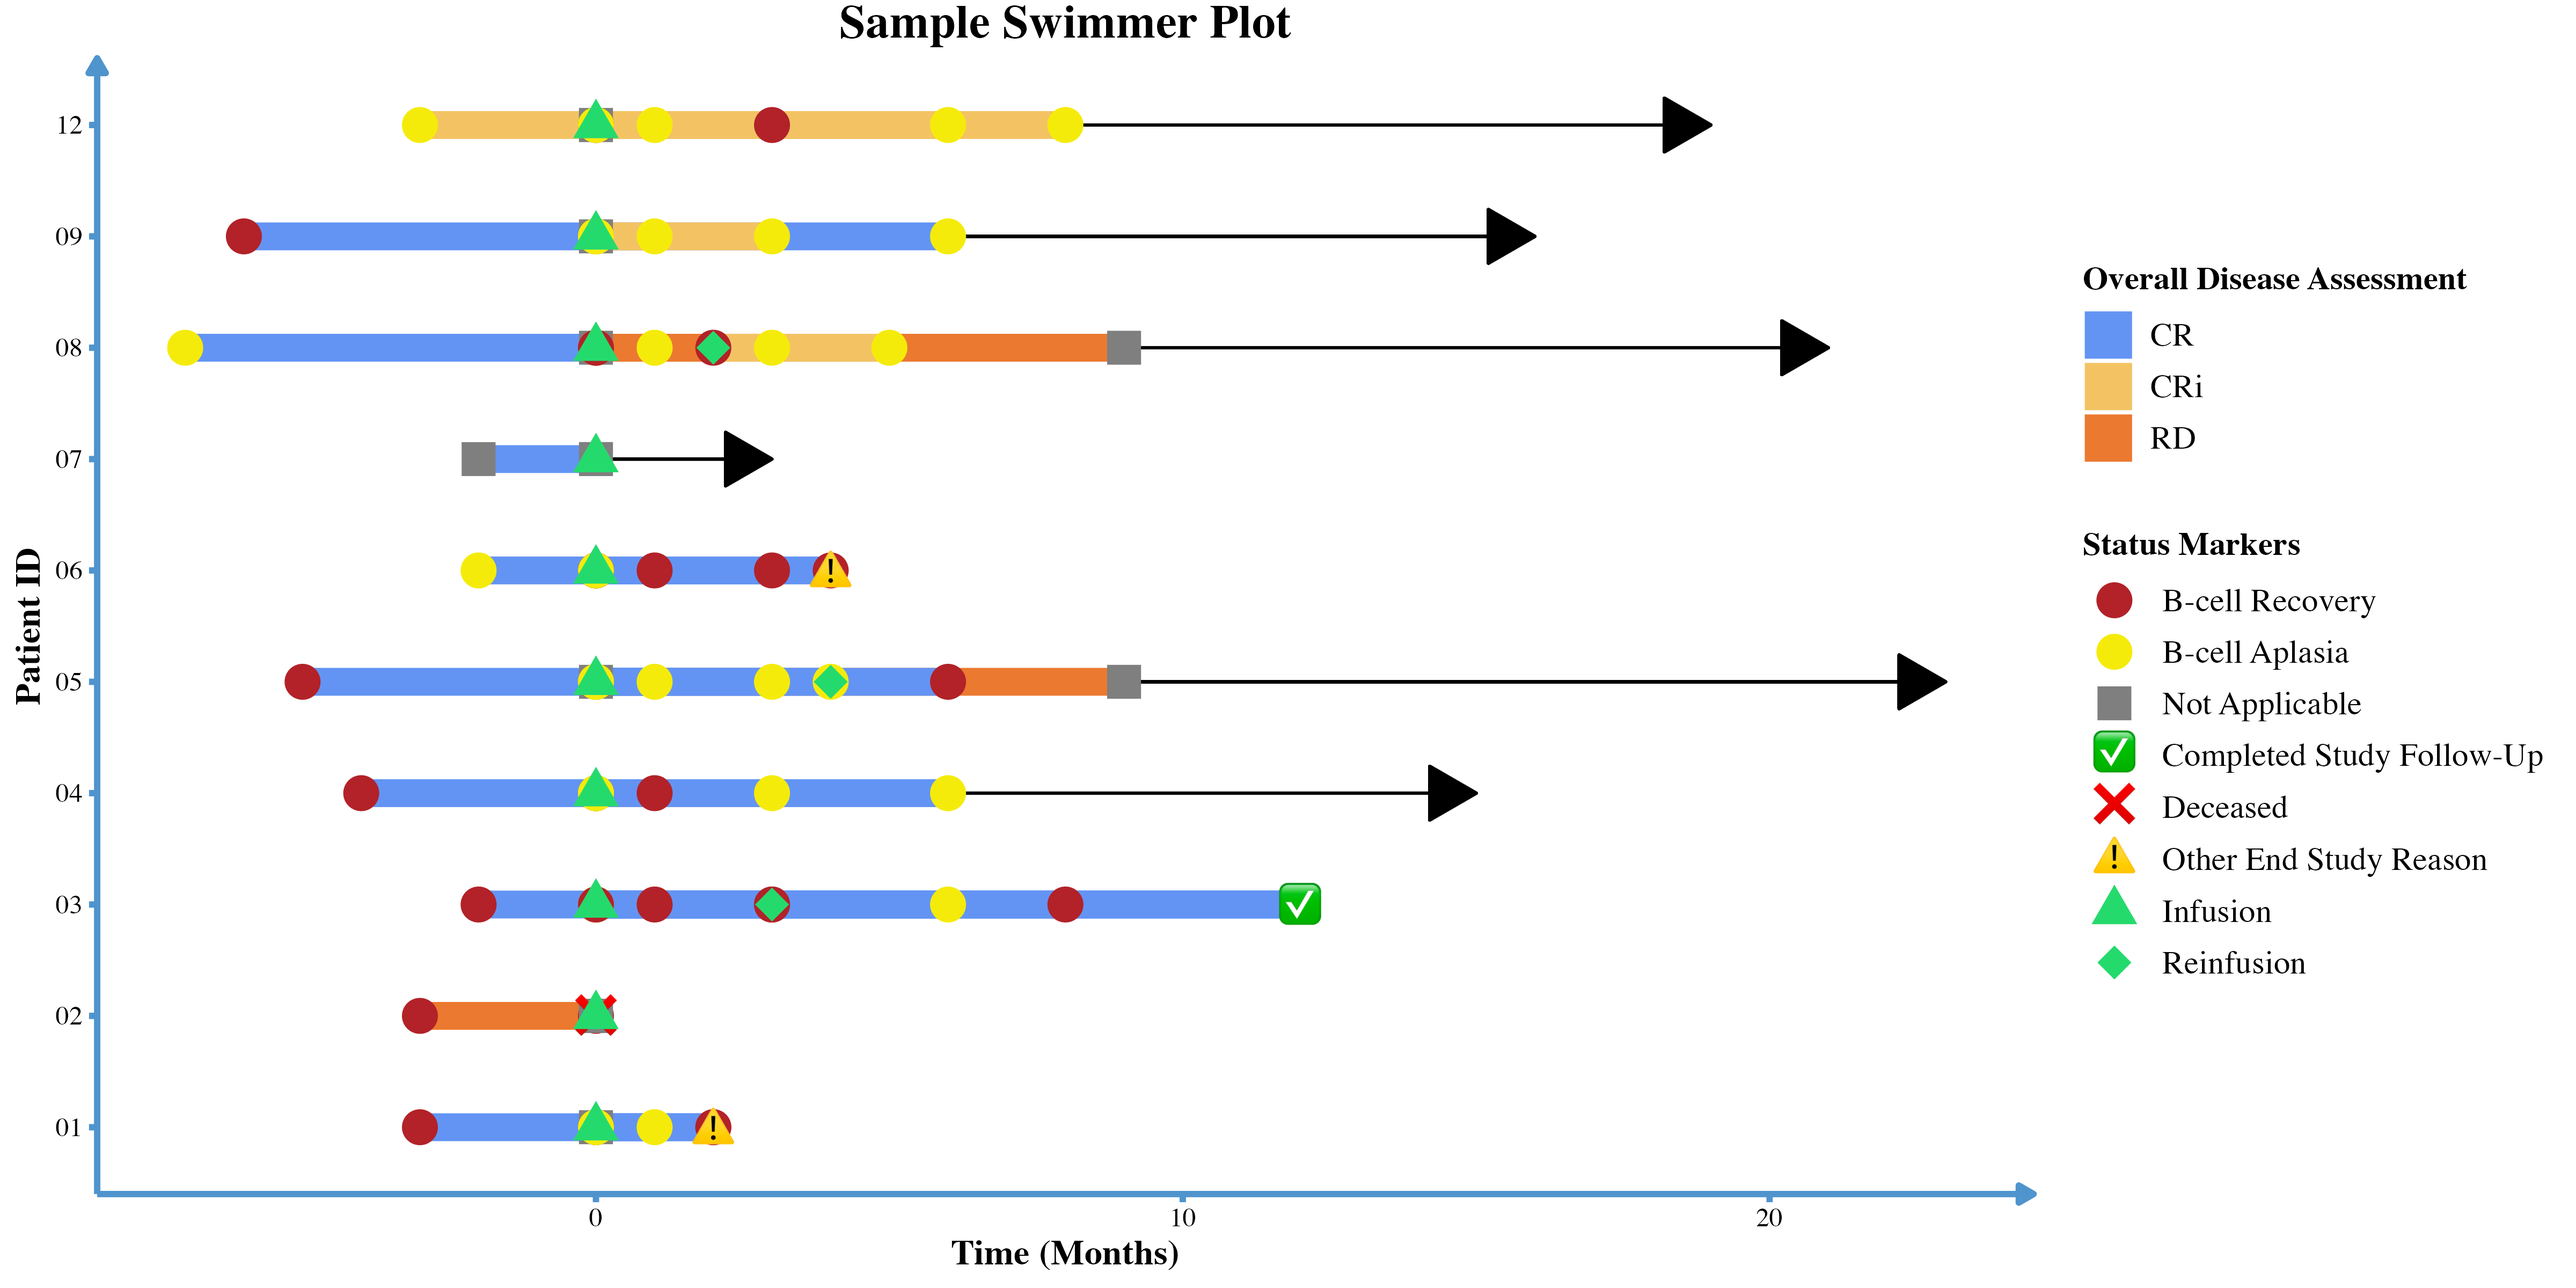
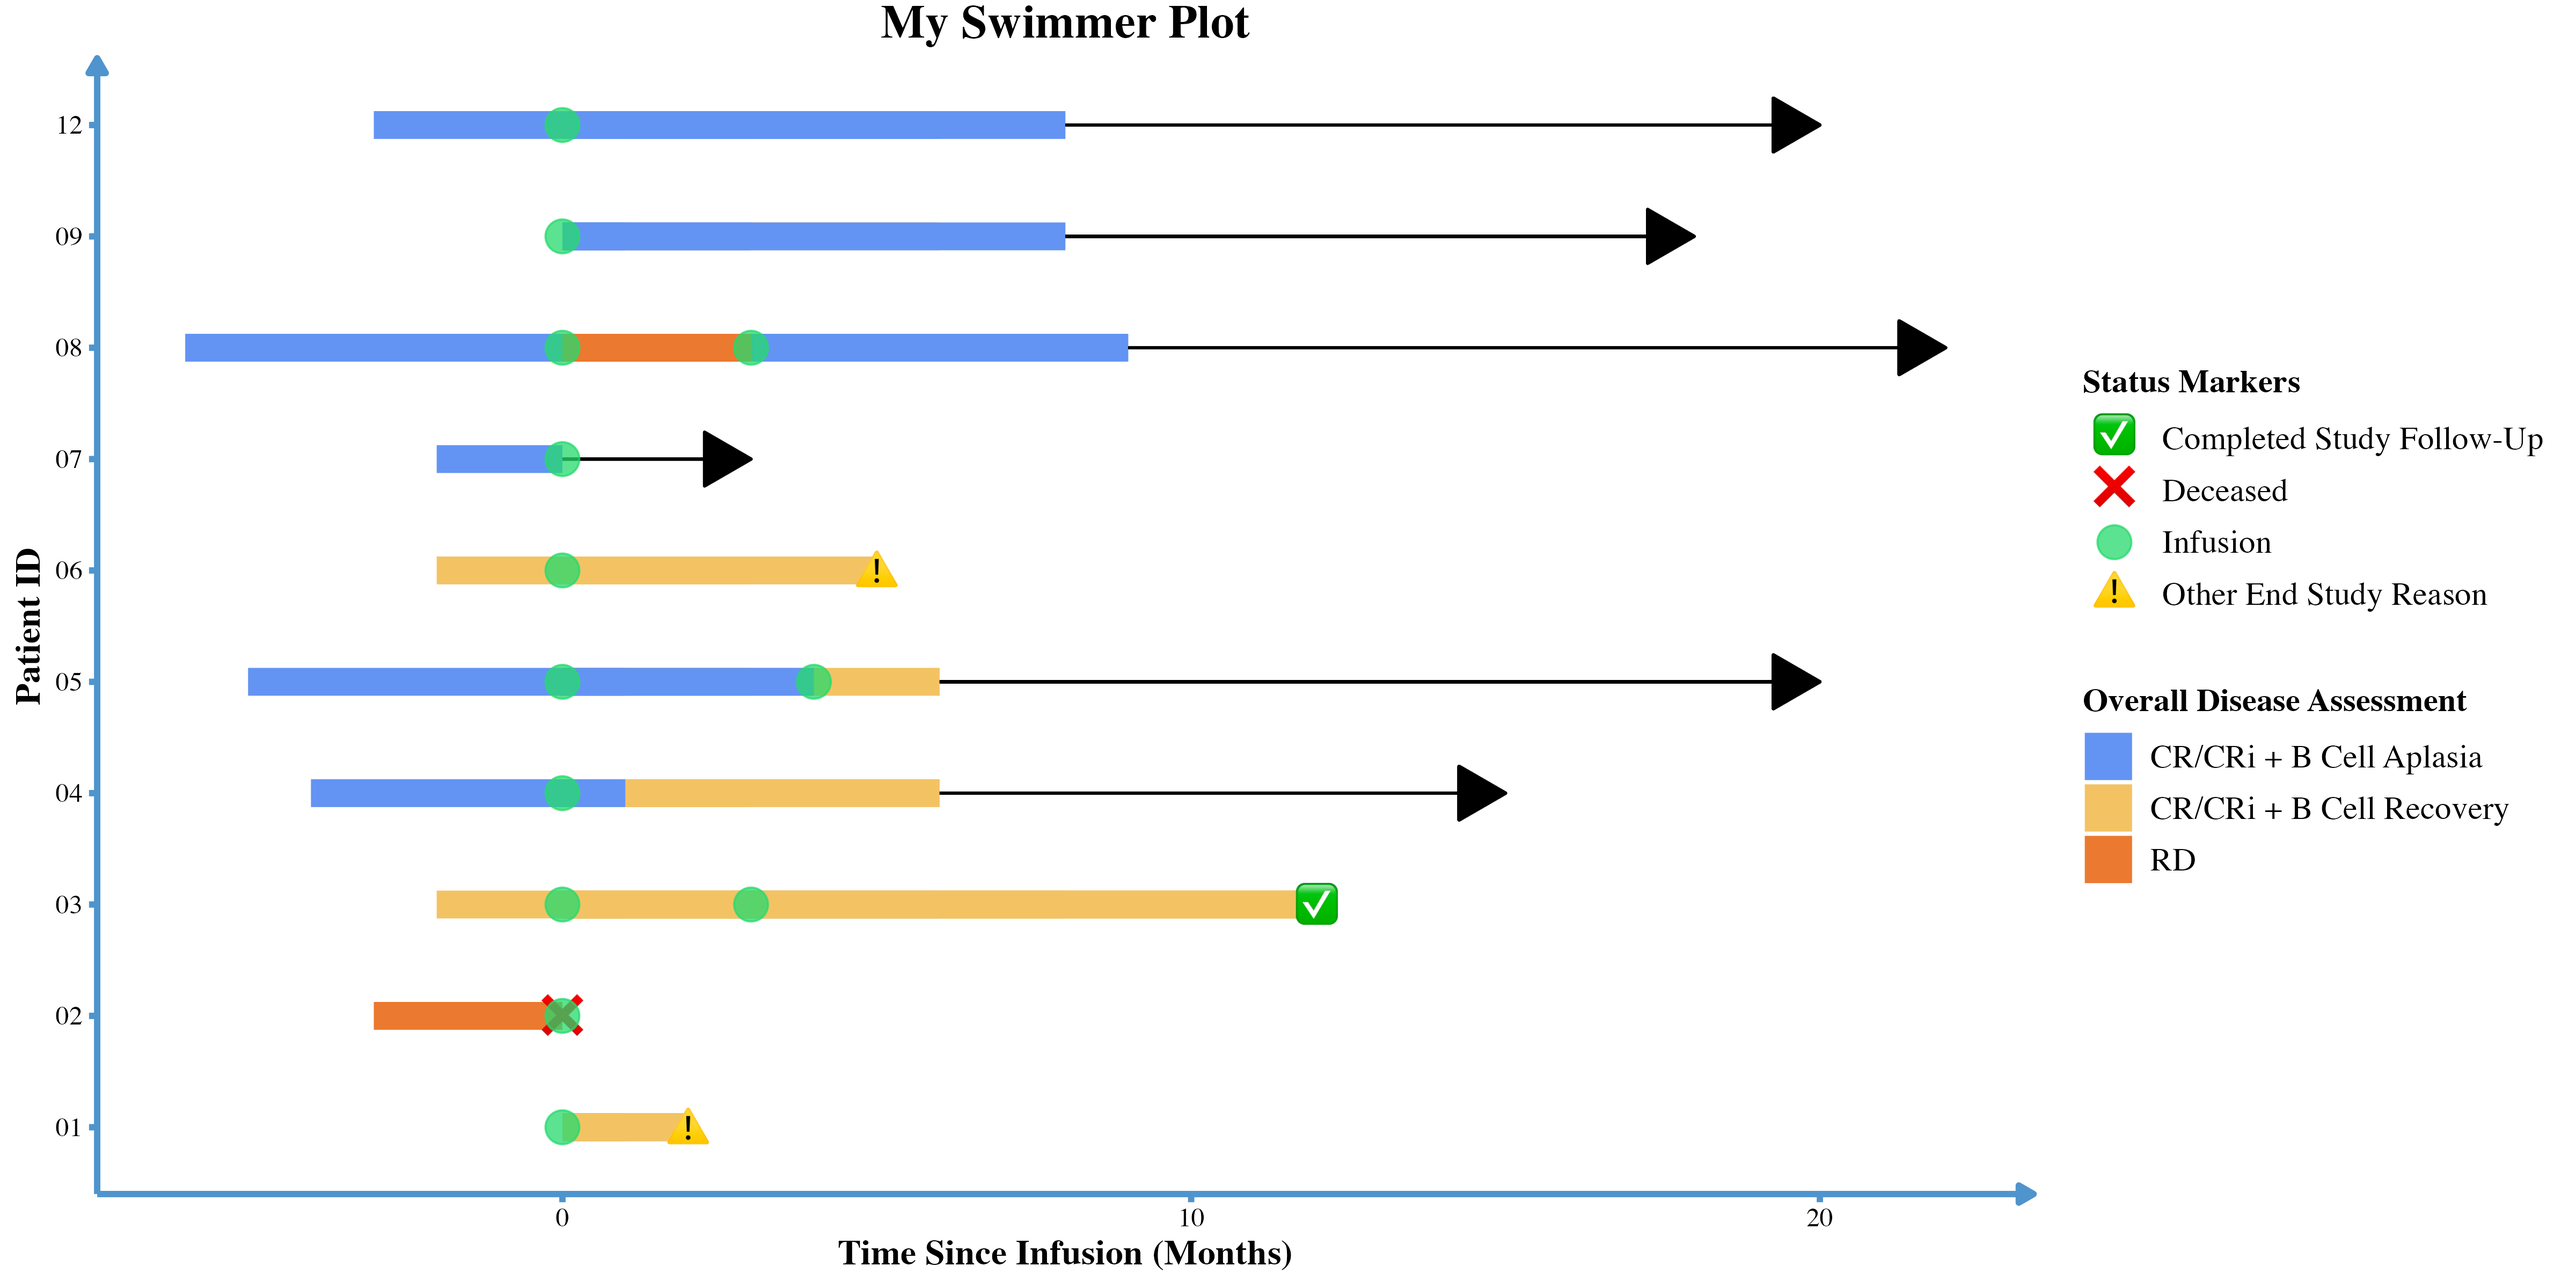
Dataset and vignette updates :bulb:
update legend grouping, update colnames in infusion_events

diff --git a/README.md b/README.md
@@ -40,8 +40,8 @@ library(ggswim)
 library(ggplot2)
 
 p <- ggswim(
-  patient_data |> dplyr::rename("Status Markers" = bcell_status),
-  mapping = aes(x = delta_t0_months, y = pt_id, fill = disease_assessment_status),
+  patient_data,
+  mapping = aes(x = delta_t0_months, y = pt_id, fill = disease_assessment),
   arrow = arrow_status,
   arrow_head_length = unit(.25, "inches"),
   arrow_neck_length = delta_today,
@@ -49,25 +49,22 @@ p <- ggswim(
 )
 ```
 
-Next we’ll add on events of interest: B-cell status changes, end of
-study updates, and infusions. These we’ll refer to as “markers”:
+Next we’ll add on events of interest: end of study updates, and
+infusions. These we’ll refer to as “markers”:
 
 ``` r
 p <- p +
   add_marker(
-    aes(x = delta_t0_months, y = pt_id, color = `Status Markers`, shape = `Status Markers`),
-    size = 5, position = "identity", alpha = 1
-  ) +
-  add_marker(
-    data = end_study_events,
-    aes(x = delta_t0_months, y = pt_id, label_vals = end_study_label, label_names = end_study_name),
+    data = end_study_events |> dplyr::rename("Status Markers" = end_study_name),
+    aes(x = delta_t0_months, y = pt_id, label_vals = end_study_label, label_names = `Status Markers`),
     label.size = NA, fill = NA, size = 5
   ) +
   add_marker(
     data = infusion_events,
-    aes(x = infusion_delta_t0_months, y = pt_id, color = infusion_type, shape = infusion_type),
-    size = 5, position = "identity", alpha = 1
+    aes(x = delta_t0_months, y = pt_id, name = "Infusion"), color = "#25DA6D",
+    size = 5, position = "identity", alpha = .75
   ) 
+#> Warning: Duplicated aesthetics after name standardisation: colour
 ```
 
 Finally, we’ll beautify the plot with familiar ggplot2 techniques and a
@@ -75,18 +72,12 @@ last finishing touch with `theme_ggswim()`:
 
 ``` r
 p +
-  scale_colour_manual(
-    values = c("#b22228", "#F5EB0A", "gray50", NA, NA, NA, "#25DA6D", "#25DA6D")
-  ) +
-  scale_shape_manual(
-    values = c(19, 19, 15, 17, 18)
-  ) +
   scale_fill_manual(
     name = "Overall Disease Assessment",
     values = c("#6394F3", "#F3C363", "#EB792F")
   ) +
-  labs(title = "Sample Swimmer Plot") +
-  xlab("Time (Months)") + ylab("Patient ID") +
+  labs(title = "My Swimmer Plot") +
+  xlab("Time Since Infusion (Months)") + ylab("Patient ID") +
   theme_ggswim()
 ```
 
@@ -97,7 +88,7 @@ p +
 We invite you to give feedback and collaborate with us! If you are
 familiar with GitHub and R packages, please feel free to submit a [pull
 request](https://github.com/CHOP-CGTInformatics/ggswim/pulls). Please do
-let us know if ggswim fails for whatever reason and
+let us know if ggswim fails for whatever reason with your database and
 submit a bug report by creating a GitHub
 [issue](https://github.com/CHOP-CGTInformatics/ggswim/issues).
 
